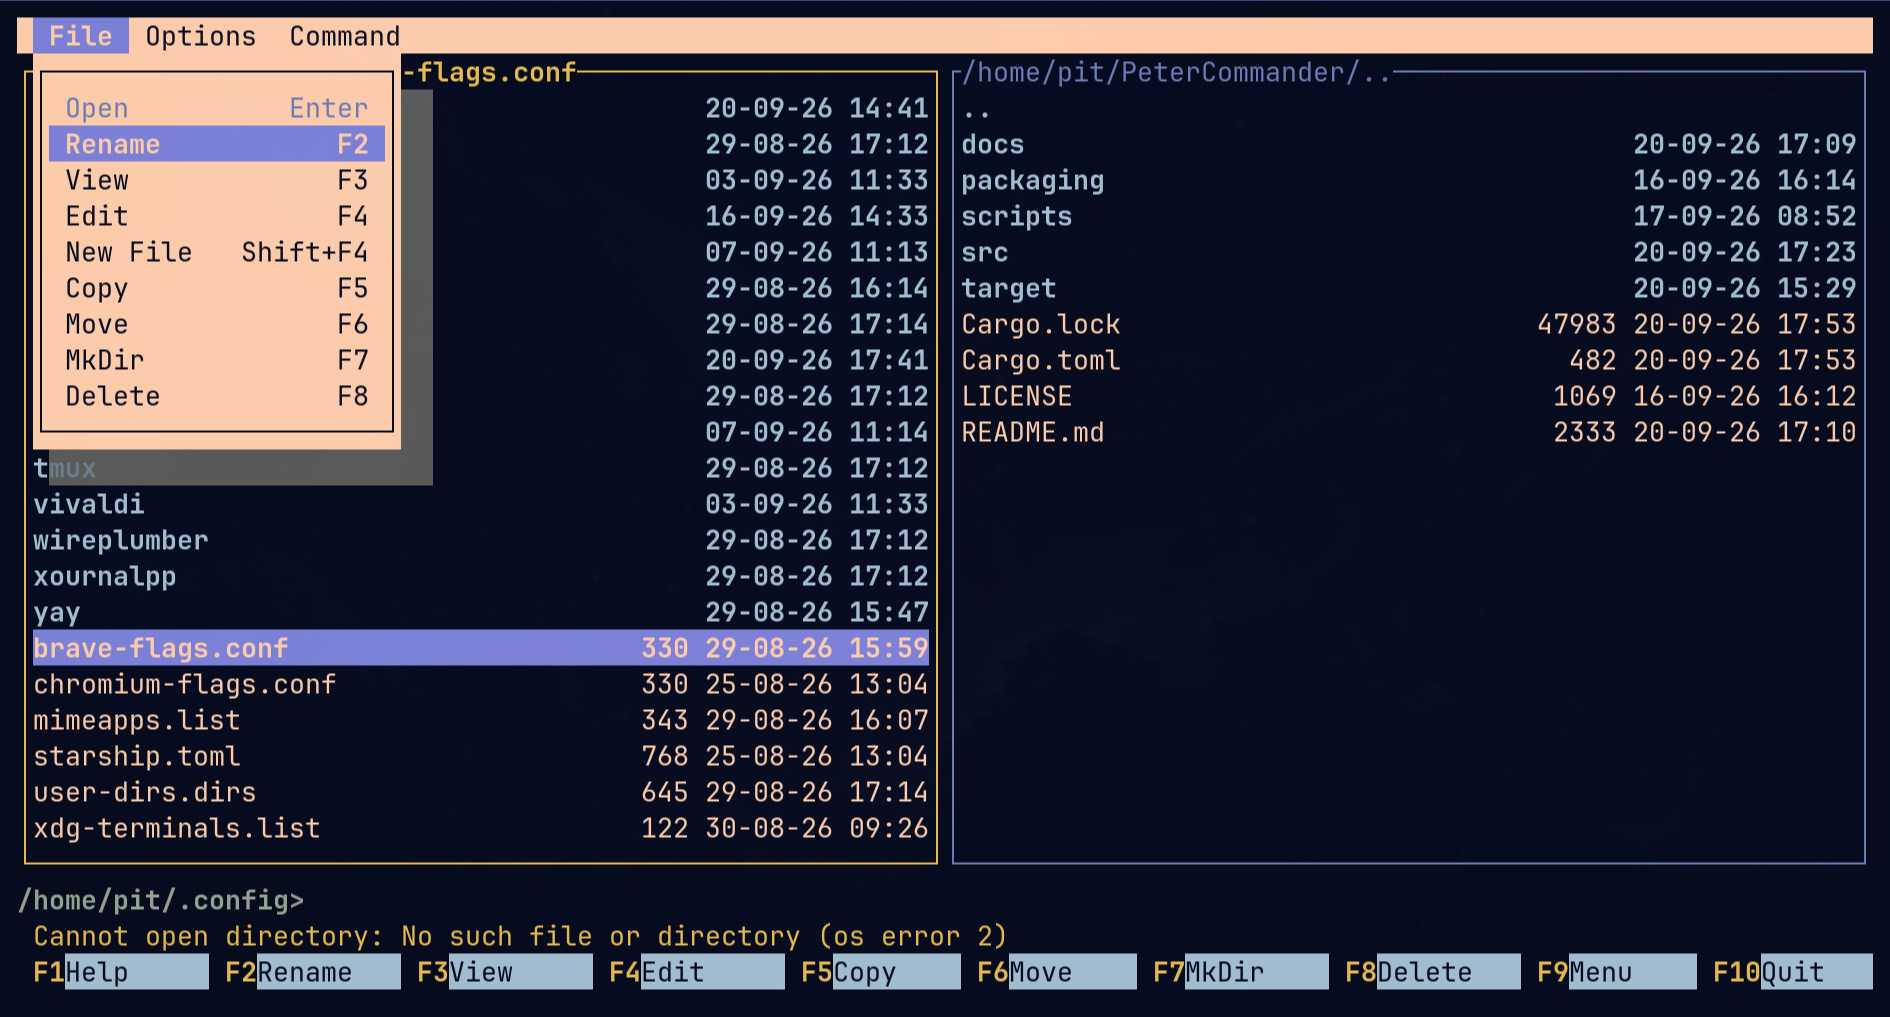
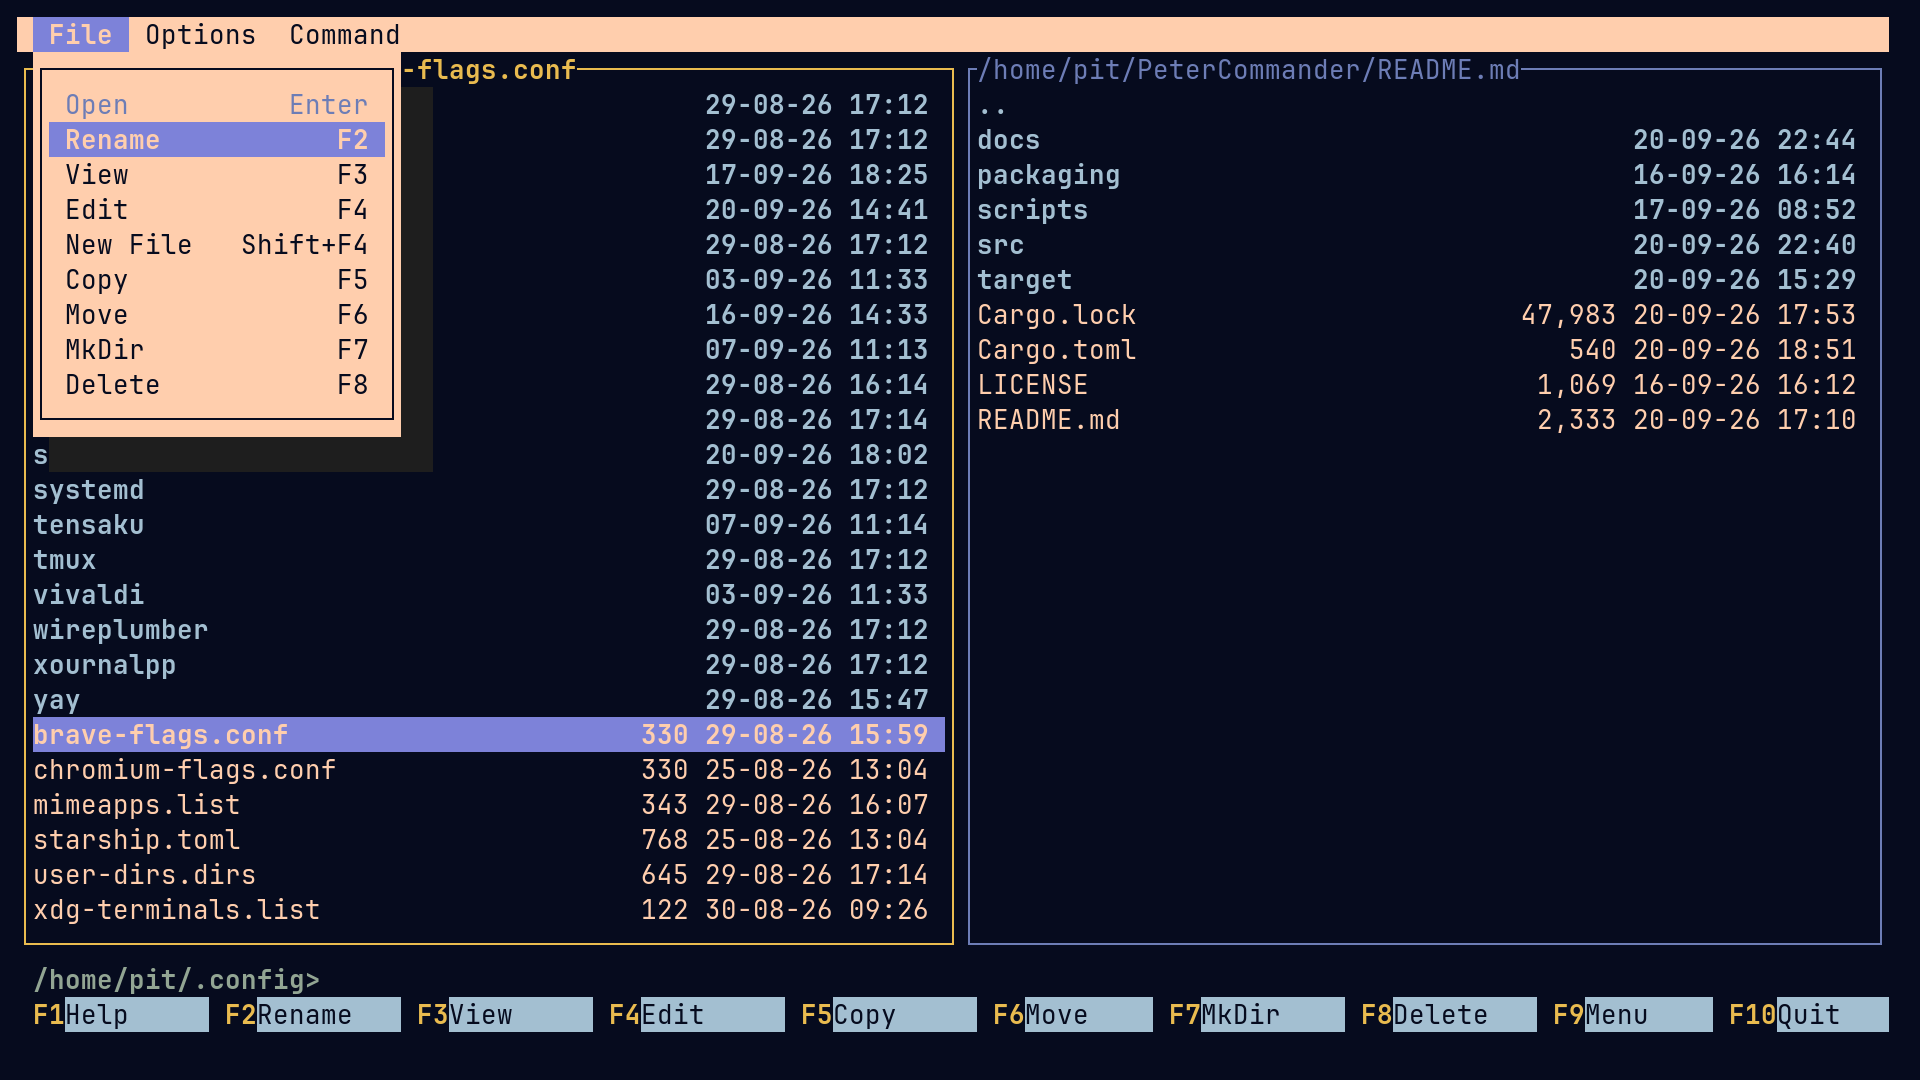
Add a classic-mode screenshot to the README

Changed region(s): [[0.0, 0.0, 0.9989, 0.9754], [0.7804, 0.1219, 0.9989, 0.4572], [0.9677, 0.823, 0.9989, 0.8535]]

diff --git a/README.md b/README.md
@@ -8,6 +8,11 @@ Should work on any Linux, macOS, or Windows.
 
 ![Peter Commander](docs/ethereal.png)
 
+Also comes with an optional classic retro Norton Commander color scheme
+(Options > Settings):
+
+![Peter Commander in classic Norton Commander colors](docs/classic.png)
+
 ## Features
 
 - Dual-pane file browsing
